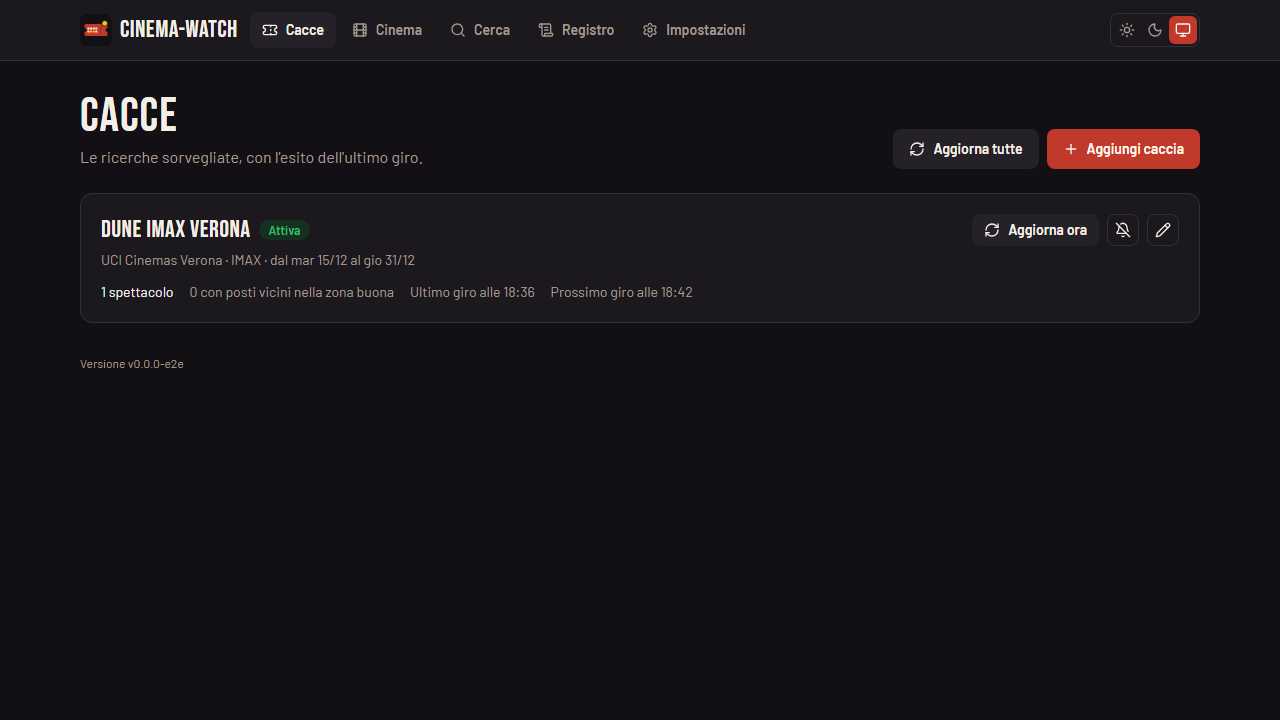
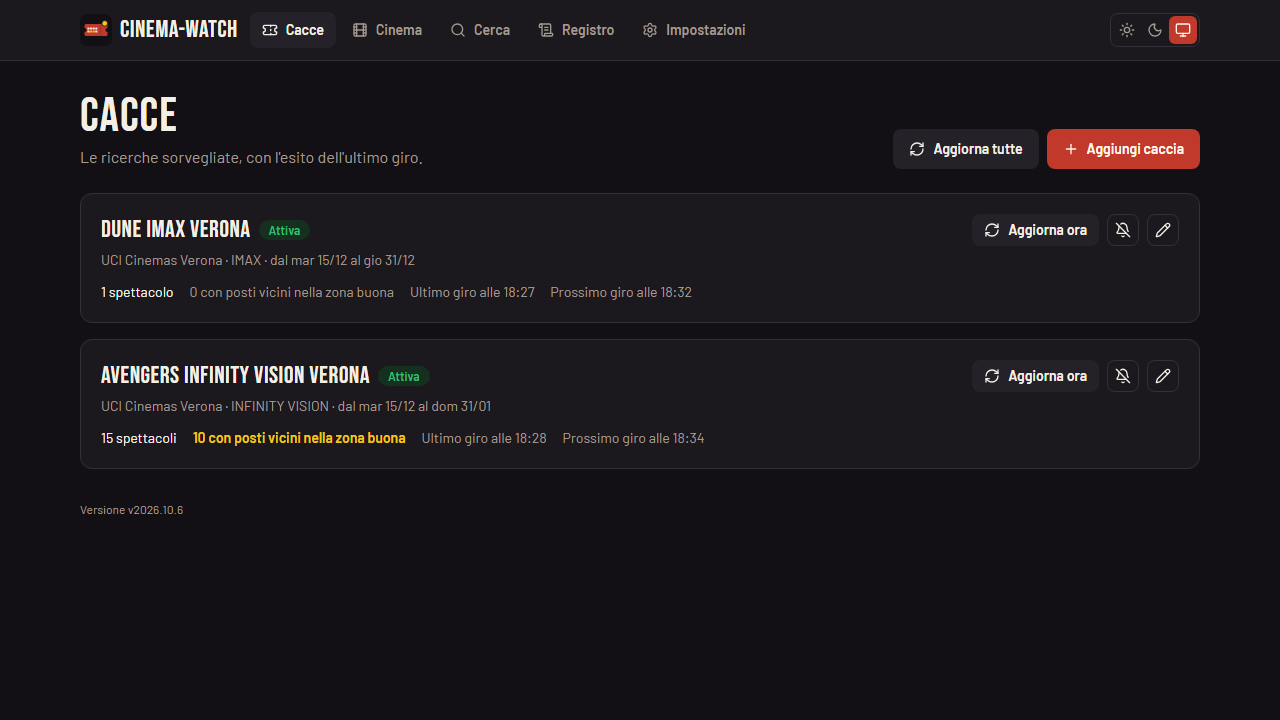
README: Cosa fa, riassunto in inglese, screenshot nuovi, Contribuire; CONTRIBUTING.md

diff --git a/README.md b/README.md
@@ -4,13 +4,26 @@ Sorveglia la programmazione dei cinema UCI e di quelli che vendono con Webtic (N
 
 [![OpenSSF Scorecard](https://api.scorecard.dev/projects/github.com/PilaScat/cinema-watch/badge)](https://scorecard.dev/viewer/?uri=github.com/PilaScat/cinema-watch)
 
+**In English.** cinema-watch watches the programming of Italian cinemas (UCI Cinemas and the venues that sell tickets through Webtic, such as Notorious) with "hunts" for a film, a set of cinemas, screen formats and dates. When showings come out, good seats free up or run out, or a showing is cancelled or moved, it sends a Telegram alert with the seat map. It runs as a small Docker container (`ghcr.io/pilascat/cinema-watch`, amd64 and arm64) with a web UI to manage the hunts: the `docker run` command is under [Avvio rapido](#avvio-rapido). The interface and the docs are in Italian; issues and pull requests in English are welcome.
+
+## Cosa fa
+
+- **Cacce**: un film (anche non ancora in programmazione, cercato per titolo), uno o più cinema, i formati di sala (IMAX, XL, Infinity Vision…) e le date, con filtri facoltativi per orario, giorni della settimana e lingua.
+- **Avvisi su Telegram**: nuovi spettacoli, posti liberati, ultimi posti, spettacoli annullati o spostati, con la pianta della sala e i migliori posti liberi.
+- **Zona buona**: le file e i posti che vanno bene, relativi alla sala o fissati cliccando sulla pianta, con il numero di posti vicini richiesto.
+- **Pulsanti nel messaggio**: Acquista, Apri sala, Aggiorna ora, Silenzia 24 h e Acquistato, con Riattiva e Ripristina per tornare indietro; `/aggiorna` rilegge tutte le cacce.
+- **Cinema**: UCI Cinemas e circa 300 cinema che vendono con Webtic (Notorious, Cinelandia, Movie Planet e molti indipendenti), ordinabili per distanza da casa.
+- **Web UI**: cacce, programmazione, pagina dello spettacolo con la pianta dal vivo e l'andamento dei posti, ricerca di un film anche con un errore di battitura; si installa come app dietro HTTPS.
+
 ![La pianta della sala come arriva su Telegram](docs/img/pianta.png)
 
-![La home, tema scuro](docs/img/home.png)
+![Le cacce, tema scuro](docs/img/home.png)
+
+![I cinema UCI e Webtic dal più vicino a casa, tema chiaro](docs/img/cinema.png)
 
 ![La pagina di uno spettacolo, tema chiaro](docs/img/spettacolo.png)
 
-Dall'alto: la pianta di una sala come arriva su Telegram, la home della web UI nel tema scuro e la pagina di uno spettacolo nel tema chiaro.
+Dall'alto: la pianta di una sala come arriva su Telegram, le cacce nel tema scuro, i cinema ordinati per distanza da una casa d'esempio a Milano e la pagina di uno spettacolo con la zona buona tratteggiata.
 
 ## Stack
 
@@ -20,7 +33,7 @@ Dall'alto: la pianta di una sala come arriva su Telegram, la home della web UI n
 - resvg per i PNG delle piante
 - zod per validare configurazione e risposte delle API
 - dati in file JSON e JSONL, nessun database
-- immagine `ghcr.io/pilascat/cinema-watch` per amd64 e arm64, circa 156 MB, utente 99:100, compatibile con `--read-only`; a riposo usa circa 44 MiB di RAM (misurati)
+- immagine `ghcr.io/pilascat/cinema-watch` per amd64 e arm64, circa 157 MB, utente 99:100, compatibile con `--read-only`; a riposo il processo usa circa 50 MiB di memoria propria (misurati su Unraid il 18/10/2026; `docker stats` mostra di più perché conta anche la cache dei file)
 
 ## Avvio rapido
 
@@ -112,15 +125,21 @@ Le Impostazioni mostrano quando token o chat arrivano dall'ambiente.
 | [docs/operations.md](docs/operations.md) | Deploy, aggiornamenti, backup, rilascio e smoke test. |
 | [docs/UI-COPY.md](docs/UI-COPY.md) | Regole per i testi visibili. |
 | [docs/backlog.md](docs/backlog.md) | Cosa resta da decidere o da fare nei prossimi rilasci. |
+| [docs/best-practices.md](docs/best-practices.md) | Risposte al questionario OpenSSF Best Practices. |
 | [CHANGELOG.md](CHANGELOG.md) | Note di ogni versione. |
 | [SECURITY.md](SECURITY.md) | Come segnalare una vulnerabilità. |
+| [CONTRIBUTING.md](CONTRIBUTING.md) | Come segnalare un problema e proporre una modifica. |
+
+## Contribuire
+
+Bug e proposte si aprono come issue; le vulnerabilità si segnalano in privato come spiega [SECURITY.md](SECURITY.md). Come preparare una pull request e quali controlli deve passare è in [CONTRIBUTING.md](CONTRIBUTING.md).
 
 ## Licenza e crediti
 
-Licenza MIT, vedi [LICENSE](LICENSE). Autore: Filippo Scatigna (PilaScat).
+Licenza MIT, vedi [LICENSE](LICENSE); le note delle parti di terzi sono in [NOTICE](NOTICE). Autore: Filippo Scatigna (PilaScat).
 
 - [KiraPC/italian-cinema-mcp](https://github.com/KiraPC/italian-cinema-mcp) (MIT): da qui viene l'API della programmazione UCI.
 - Font Bebas Neue e Barlow (OFL).
 - Icone Lucide (ISC).
 
-Non affiliato a UCI Cinemas.
+Non affiliato a UCI Cinemas, a Webtic né ai cinema elencati.

diff --git a/CONTRIBUTING.md b/CONTRIBUTING.md
@@ -1,0 +1,25 @@
+# Contribuire
+
+Come segnalare un problema e proporre una modifica a cinema-watch. Issues and pull requests in English are welcome too.
+
+## Segnalare un problema
+
+- **Bug, idee e domande**: una [issue](https://github.com/PilaScat/cinema-watch/issues) con la versione (in fondo a ogni pagina della web UI), cosa si è fatto, cosa ci si aspettava e cosa è successo. Il token del bot e gli id delle chat non vanno mai incollati.
+- **Vulnerabilità**: mai in una issue pubblica. Si usa la segnalazione privata descritta in [SECURITY.md](SECURITY.md).
+
+## Proporre una modifica
+
+1. Una pull request verso `main`, piccola e su un argomento solo. Per una modifica grande conviene aprire prima una issue.
+2. Devono passare i quattro controlli di [Sviluppo in locale](README.md#sviluppo-in-locale): test, tipi, lint e build. La CI li rilancia sulla pull request.
+3. Una funzione nuova o una correzione arriva con i suoi test (Vitest, in `tests/`). Le risposte delle API si provano con risposte vere ridotte, in `tests/fixtures/`. La copertura minima è il 90% su `src/` e l'80% su `src/web/`.
+4. Le scelte che non si capiscono dal codice vanno in [docs/MEMORY.md](docs/MEMORY.md); una novità visibile va nel [CHANGELOG](CHANGELOG.md) sotto la prossima versione.
+
+## Regole del codice
+
+- Codice in inglese: identificatori, nomi dei file, route e campi.
+- Testi visibili in italiano, nei file dei testi (`src/copy.ts` e `src/web/copy/`) e secondo [docs/UI-COPY.md](docs/UI-COPY.md); `tests/copy-style.test.ts` li controlla.
+- Niente commenti nel codice: si spiega con nomi giusti e funzioni piccole. Restano le direttive, come `// eslint-disable-*` e `// @ts-expect-error`.
+- Fine riga LF, come chiede `.gitattributes`.
+- Le chiamate esterne passano da `src/http.ts`, solo verso gli host elencati in [docs/api.md](docs/api.md).
+
+Chi contribuisce accetta che il suo codice sia distribuito con la licenza MIT del progetto ([LICENSE](LICENSE)).
